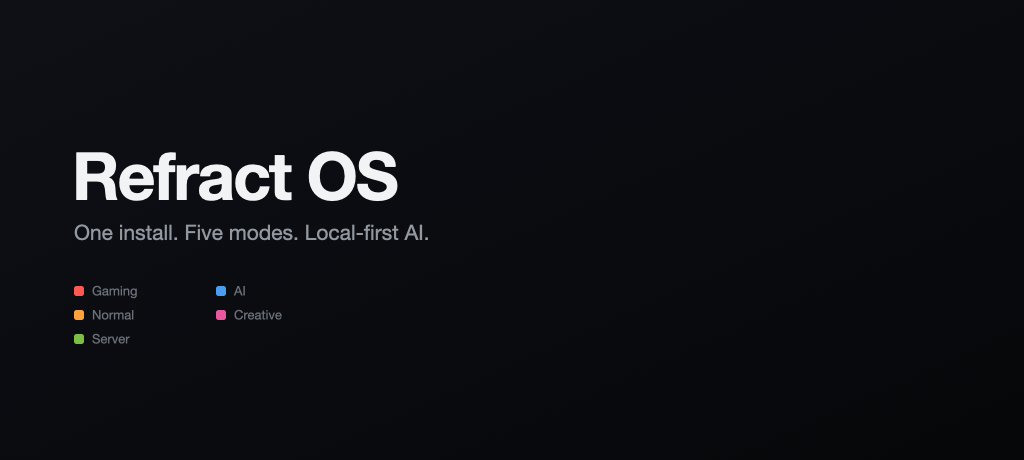
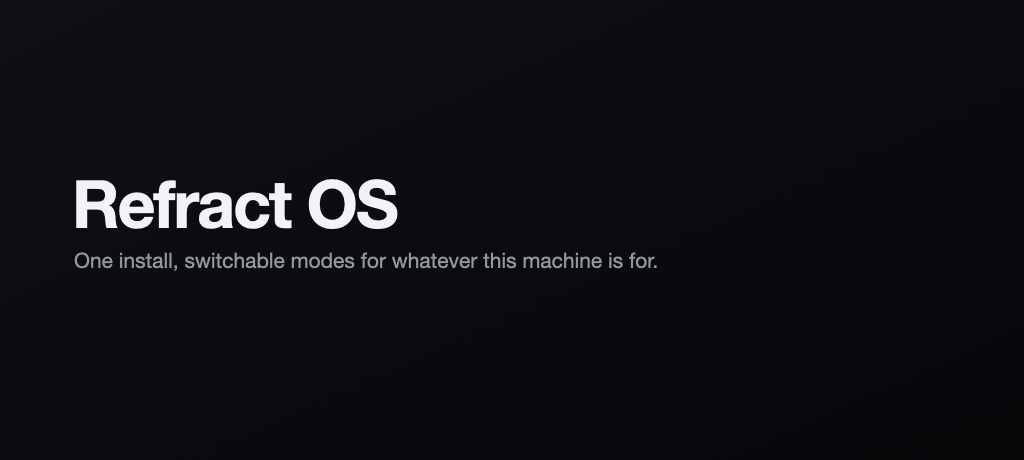
fix: stop omitted-mode builds advertising modes they don't have; bake Normal's accent for fresh installs
Three leaks where a build-time variable had been frozen into a build-invariant
surface, so an image built with a mode omitted still advertised it:

* The Calamares welcome banner is a BAKED PNG reading "One install. Five modes.
  Local-first AI." beside a coloured "AI" chip. build-iso.yml offers a checkbox
  per optional mode and calls an unchecked one "provably absent"; build.sh then
  strips that mode from the package lists, the staged tree, the packagechooser
  and the slideshow — but nothing can strip a rasterized image, so a
  REFRACT_OMIT_MODES=ai ISO opened its installer on "Local-first AI." with an AI
  chip, and every omitted build miscounted its own modes. Variant PNGs need one
  per subset (2^4) and drift as soon as a mode is added; rasterizing at build
  time puts an SVG renderer in the ISO pipeline for one image. The banner now
  says nothing that can go stale — the packagechooser two steps later is already
  the real mode legend, correctly filtered.

* show.qml's INTRO slide — the one slide build.sh cannot strip, and commented as
  "deliberately mode-agnostic" — ended "plus broad, practical Windows app and
  game compatibility". That is a Gaming claim, so a -nogaming image promised
  Windows game support it provably lacked. It was not true of a full build
  either: no strain bakes Wine in (libwine is ~647 MB; gaming's setup script
  installs it on demand). The gaming slide already makes the claim, scoped and
  strippable.
[…]

diff --git a/iso/calamares/branding/refractos/show.qml b/iso/calamares/branding/refractos/show.qml
@@ -49,7 +49,18 @@ Presentation
             width: presentation.width * 0.7
             horizontalAlignment: Text.Center
             wrapMode: Text.WordWrap
-            text: qsTr("One install, switchable modes tuned to whatever this machine is for -- plus broad, practical Windows app and game compatibility.")
+            // Mode-agnostic ON PURPOSE — build.sh strips the per-mode slides below
+            // for an omitted mode but CANNOT strip this one, so anything it claims
+            // must hold for every build. The old text ended "-- plus broad,
+            // practical Windows app and game compatibility", which is a Gaming-mode
+            // claim on the one slide Gaming's absence cannot remove: a -nogaming
+            // image promised Windows game support it provably did not have. It was
+            // not even true of a full build, since no strain bakes Wine in at all
+            // (libwine is ~647 MB; modes/gaming/setup/03-install-wine-staging.sh
+            // installs it on demand). The gaming slide below already makes the
+            // claim, correctly scoped and correctly stripped. Same sentence as the
+            // welcome banner and the MOTD, so all three surfaces agree.
+            text: qsTr("One install, switchable modes for whatever this machine is for.")
             color: "#cccccc"
         }
     }
